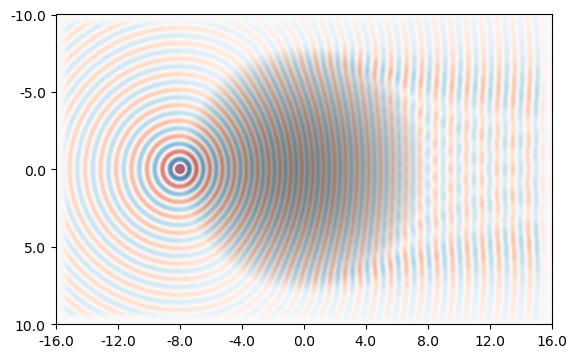
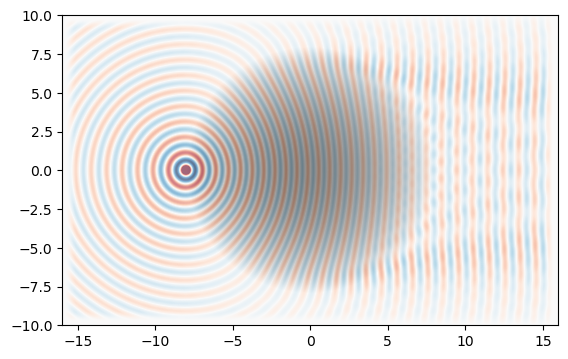
updated figure, corrected text when taking real value and using extent

diff --git a/docs/source/reflection_and_refraction.rst b/docs/source/reflection_and_refraction.rst
@@ -68,7 +68,7 @@ Then we create the simulation object with all the cell, PML layers, geometry, an
                         force_complex_fields=True)
 
 
-Now we run the simulation until 75. This time is long enough because then the wave has reached the right side of the cell and we do not observe change. We can use plot2D to easily see the geometry of the simulation. We can plot the electric field at the end of the simulation by using get_array. Now we have to notice that we are using complex fields so to be able to plot them we take absolute values of the field data. To get the imshow to show the plot not upside down, we define origin="lower". The ticks are defined manually because imshow otherwise shows the number of pixels on the axis.
+Now we run the simulation until 75. This time is long enough because then the wave has reached the right side of the cell and we do not observe change. We can use plot2D to easily see the geometry of the simulation. We can plot the electric field at the end of the simulation by using get_array. Now we have to notice that we are using complex fields so to be able to plot them we take real part of the field data. To get the imshow to show the plot not upside down, we define origin="lower". The axis for imshow can be defined using extent parameter.
 
 .. code-block :: python
 
